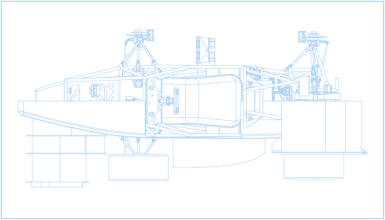
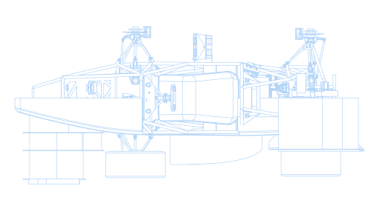
Remove border frame from hero sketch, size it up
Cropped the 2px drafting-sheet border that was left in from the source
scan, then re-ran the blue-recolor pass on the cleaned image. Sized
the hero graphic up (520px/36% vs. 420px/30%) while re-tuning its
position to stay clear of the name/hook-line text at 1024, 1440, and
1920px widths.

diff --git a/assets/css/style.css b/assets/css/style.css
@@ -222,7 +222,7 @@ header.nav {
   overflow: hidden;
 }
 .hero-blueprint { display: flex; align-items: flex-start; justify-content: flex-end; }
-.hero-blueprint img { width: min(420px, 30%); height: auto; opacity: 0.6; margin: 96px 3% 0 0; }
+.hero-blueprint img { width: min(520px, 36%); height: auto; opacity: 0.6; margin: 80px 2% 0 0; }
 @media (max-width: 900px) { .hero-blueprint { display: none; } }
 .bp-line { fill: none; stroke: var(--text-dim); stroke-width: 1.5; opacity: 0.55; }
 .bp-dash { stroke-dasharray: 6 7; }
